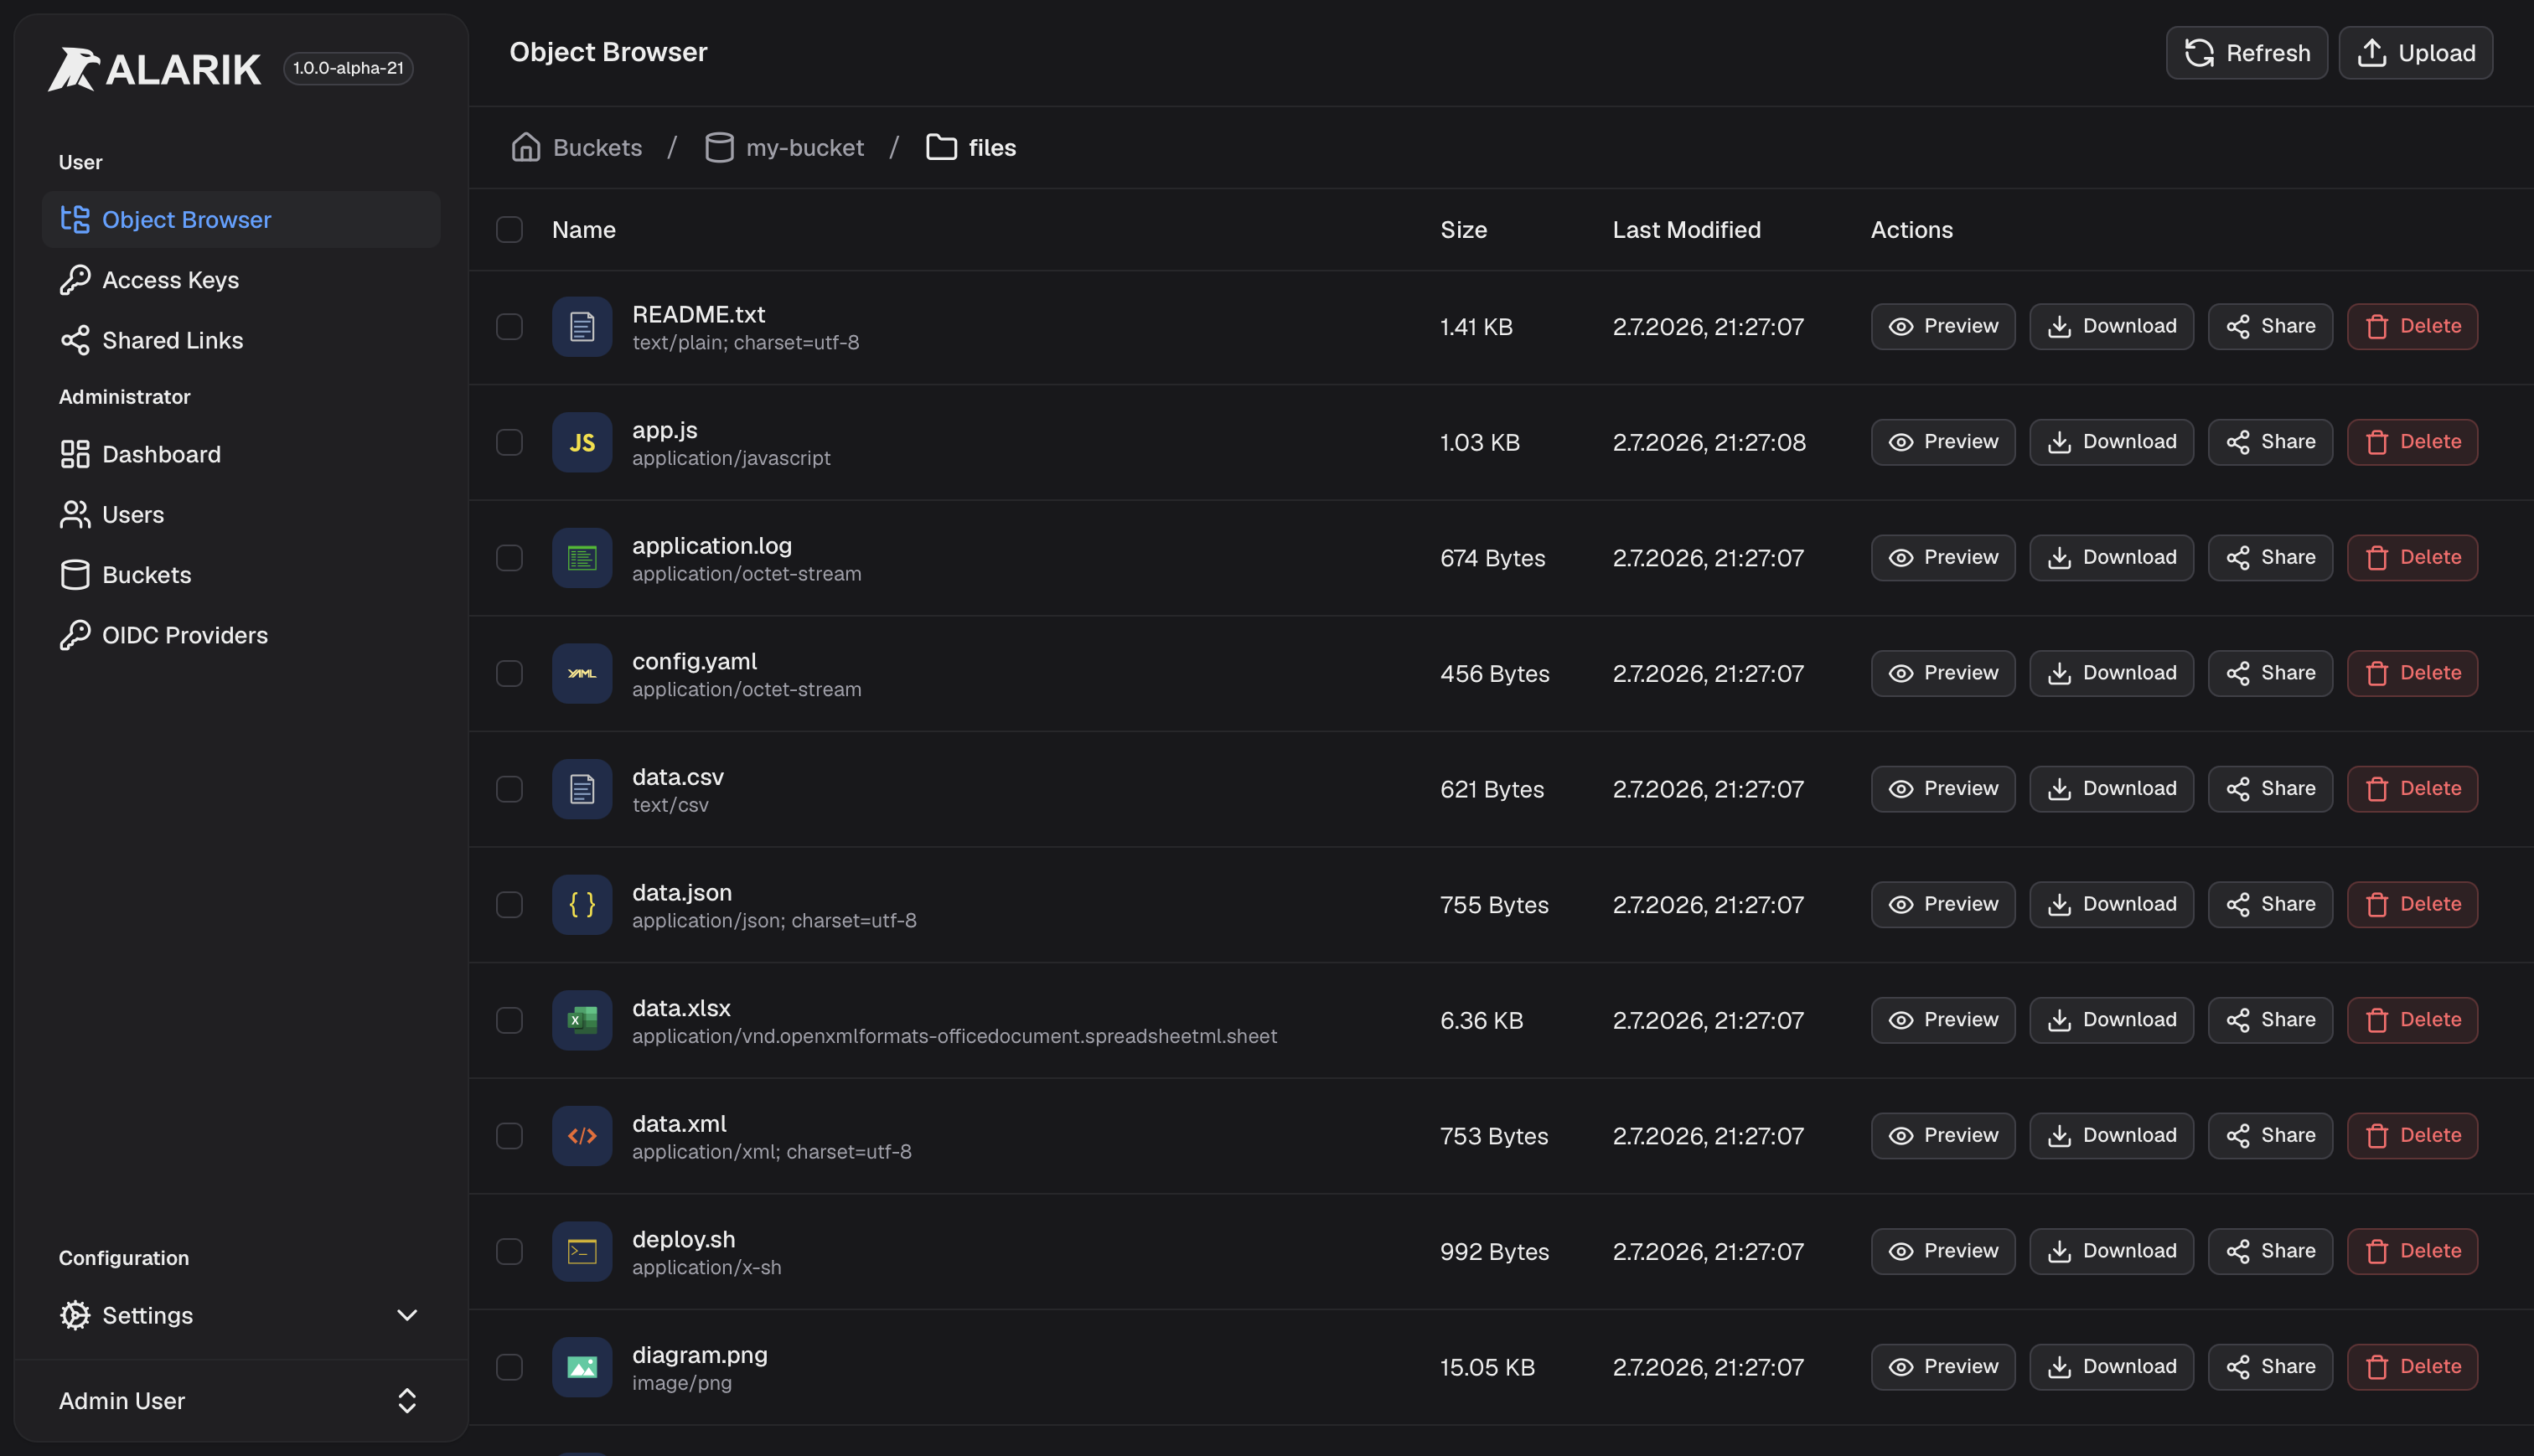
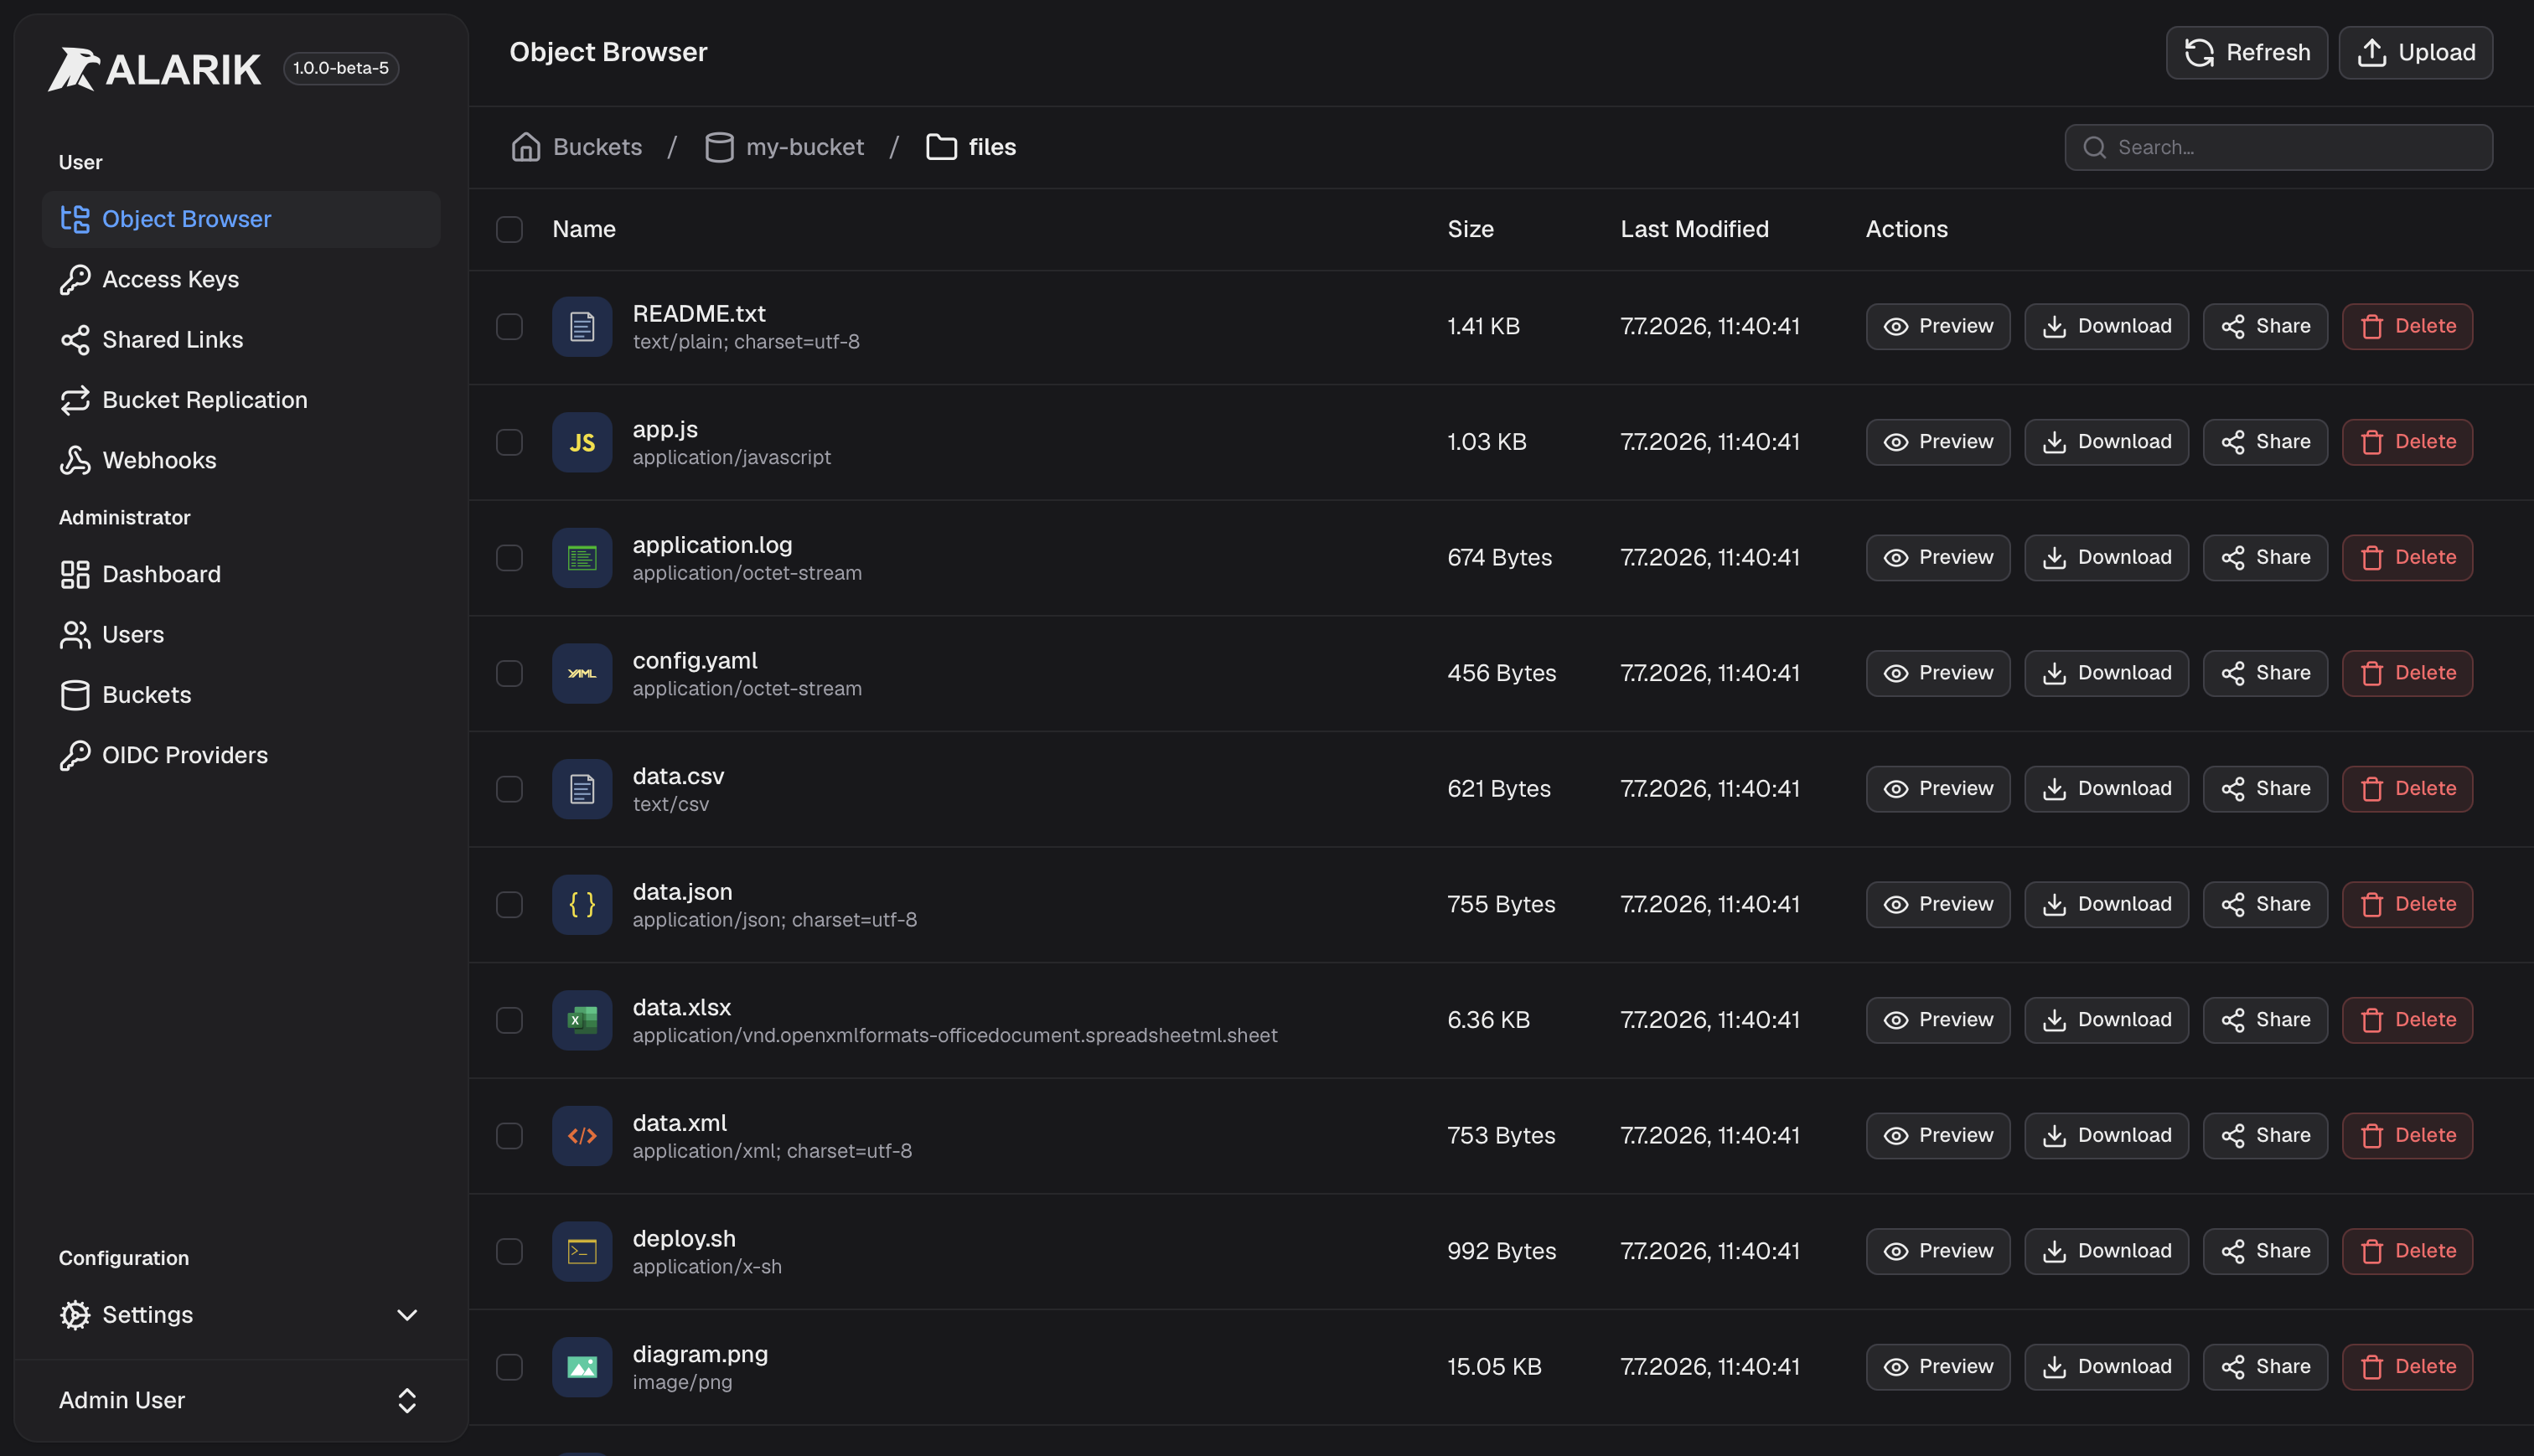
update console screenshot & contributing guidelines

diff --git a/README.md b/README.md
@@ -133,14 +133,12 @@ We use MinIO’s own benchmarking tool, `warp`, to measure performance. Both the
 
 We welcome contributions of any size. Please:
 
--   Use `dev` branch as your base branch - not master
+-   Fork Alarik and create a new branch e.g. feature/my-new-feature
 -   Use clear, descriptive commit messages
 -   Open an issue before starting larger work
 -   Follow Swift best practices
 -   Add tests for new functionality where appropriate
 -   Keep pull requests focused and incremental
-
-More detailed contributing guidelines will be added soon.
 
 ---
 